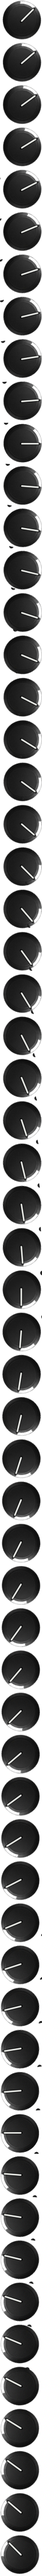
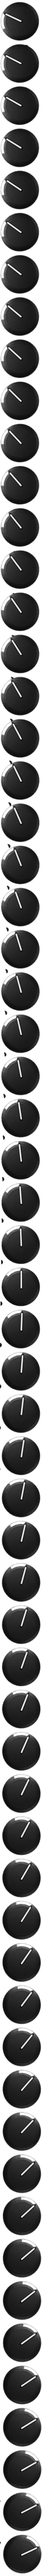
Fix switch visibility and calibrate knob readouts

Changed region(s): [[0.0, 0.0, 1.0, 1.0]]

diff --git a/source/pgpreampcontroller.cpp b/source/pgpreampcontroller.cpp
@@ -15,16 +15,26 @@ tresult PLUGIN_API PGPreampController::initialize(FUnknown* context)
     if (result != kResultOk)
         return result;
 
-    parameters.addParameter(new Vst::RangeParameter(
-        STR16("Drive"), kPGPreampDriveId, STR16("dB"), 0.0, 24.0, 0.0));
-    parameters.addParameter(new Vst::RangeParameter(
-        STR16("Output"), kPGPreampOutputId, STR16("dB"), -24.0, 12.0, 0.0));
-    parameters.addParameter(new Vst::RangeParameter(
-        STR16("Low"), kPGPreampLowId, STR16("dB"), -16.0, 16.0, 0.0));
-    parameters.addParameter(new Vst::RangeParameter(
-        STR16("Mid"), kPGPreampMidId, STR16("dB"), -18.0, 18.0, 0.0));
-    parameters.addParameter(new Vst::RangeParameter(
-        STR16("High"), kPGPreampHighId, STR16("dB"), -16.0, 16.0, 0.0));
+    auto* drive = new Vst::RangeParameter(
+        STR16("Drive"), kPGPreampDriveId, STR16("dB"), 0.0, 24.0, 0.0);
+    drive->setPrecision(1);
+    parameters.addParameter(drive);
+    auto* output = new Vst::RangeParameter(
+        STR16("Output"), kPGPreampOutputId, STR16("dB"), -24.0, 12.0, 0.0);
+    output->setPrecision(1);
+    parameters.addParameter(output);
+    auto* low = new Vst::RangeParameter(
+        STR16("Low"), kPGPreampLowId, STR16("dB"), -16.0, 16.0, 0.0);
+    low->setPrecision(1);
+    parameters.addParameter(low);
+    auto* mid = new Vst::RangeParameter(
+        STR16("Mid"), kPGPreampMidId, STR16("dB"), -18.0, 18.0, 0.0);
+    mid->setPrecision(1);
+    parameters.addParameter(mid);
+    auto* high = new Vst::RangeParameter(
+        STR16("High"), kPGPreampHighId, STR16("dB"), -16.0, 16.0, 0.0);
+    high->setPrecision(1);
+    parameters.addParameter(high);
     parameters.addParameter(new Vst::RangeParameter(
         STR16("Class A Stage"), kPGPreampClassAId, nullptr, 0.0, 1.0, 0.0, 1));
     parameters.addParameter(new Vst::RangeParameter(
